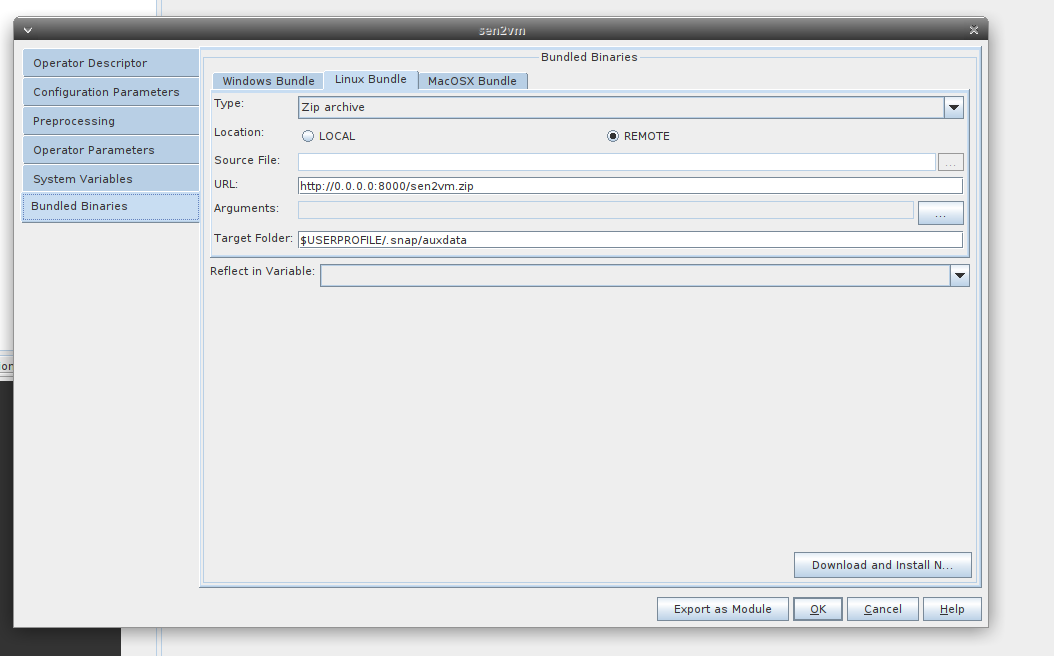
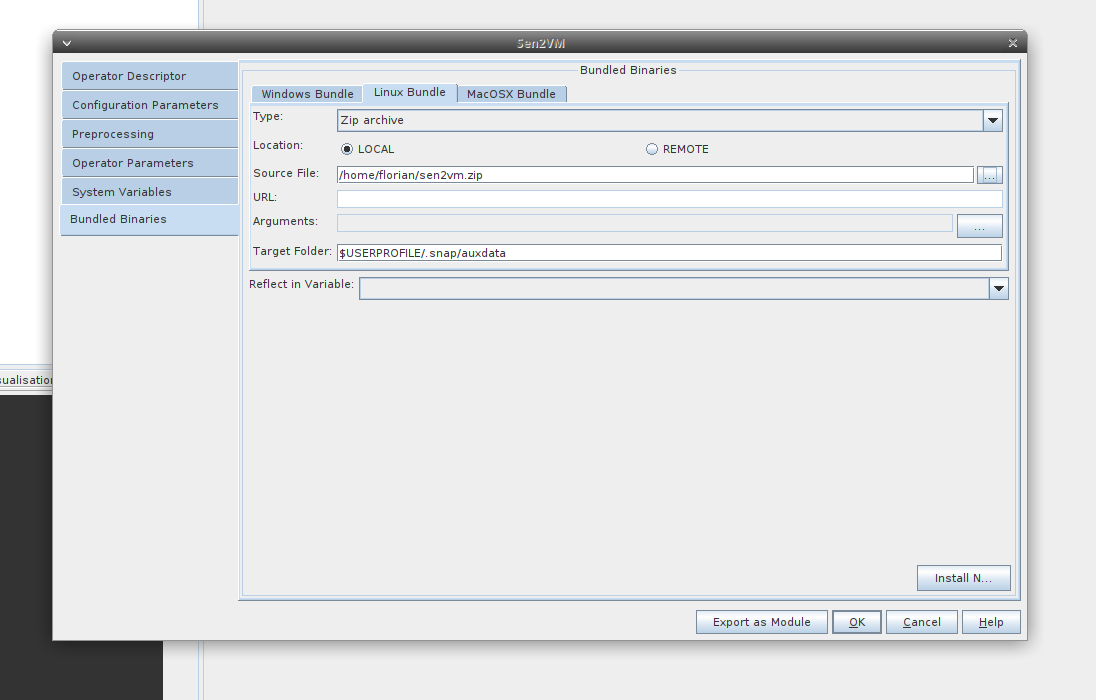
[doc] update readme

Changed region(s): [[0.0, 0.0, 0.9412, 1.0]]

diff --git a/README.md b/README.md
@@ -1,7 +1,8 @@
-# Sen2vm-snap-plugin
-Sen2VM SNAP plugin that calls the sen2vm-core standalone jar
+# Sen2VM-snap-plugin
 
-### *Prerequisite*
+Sen2VM SNAP plugin that calls the Sen2VM-Core standalone jar. For more details about the Sen2VM-Core, please refer to the following : https://github.com/sen2vm/sen2vm-core.
+
+### *Prerequisites*
 
 * build sen2vm-core
 * create zip archive with the following structure
@@ -10,13 +11,13 @@ sen2vm.zip
 
   src/main/resources/orekit-data/ 
 
-  sen2vm-snap-plugin/ 
+  sen2vm-core/
 
-  sen2vm-snap-plugin/sen2vm-core-0.0.1-SNAPSHOT.jar 
+  sen2vm-core/sen2vm-core-0.0.1-SNAPSHOT.jar 
 
-  sen2vm-snap-plugin/configuration_example.json 
+  sen2vm-core/configuration_example.json 
 
-  sen2vm-snap-plugin/params.json 
+  sen2vm-core/params.json 
 
 ### Build from sources
 
@@ -26,49 +27,70 @@ sen2vm.zip
 
 ###  SNAP installation
 
-The bundle installation is not provided for now.
-You can distribute the archive with python http.server to serve the zip file on default snap URL
+The bundle installation is not provided for now. You can distribute the archive with Python http.server to serve the zip file on the default SNAP URL:
+
 
 ``	python3 -m http.server 8000 ``
 
-Otherwise , you can choose local installation in the SNAP menu bundle installation.
+Otherwise, you can choose local installation in the SNAP menu bundle installation.
 
 
 
 * Install plugin from snap menu: **Tools → Plugins** 
 
-![img](/home/florian/snap_dev/sen2vm-snap-plugin/doc/images/plugin_menu.png) 
+![img](doc/images/plugin_menu.png) 
 
  
 
  
 
-Continue by  **Downloaded → Add Plugins** and search the nbm file in :
+Continue by  **Downloaded → Add Plugins** and search for the nbm file in :
 
 sen2vm-snap-plugin/target/sen2vm-snap-plugin-1.0-SNAPSHOT.nbm 
 
-At the end of the plugin installation, choose restart SNAP to taking account the modification.
 
-![img](/home/florian/snap_dev/sen2vm-snap-plugin/doc/images/install_plugin.png) 
 
-At this stage, only the plugin is installed. It have to install the installation bundle -> sen2vm.zip.
-At the first execution of plugin, the installation bundle is proposed to the user.
-Otherwise, it is possible to install the bundle after the restart in the menu **Tools > Manage Exeternal Tools**
+![img](doc/images/install_plugin.png) 
 
-![img](/home/florian/snap_dev/sen2vm-snap-plugin/doc/images/manager_ext_tools_menu.png) 
+
+
+
+
+![image-20250321112719642](doc/images/install_plugin_menu.png)
+
+At the end of the plugin installation, choose to restart SNAP to apply the changes.
+
+
+
+At this stage, only the plugin is installed. You need to install the installation bundle -> sen2vm.zip. At the first execution of the plugin, the installation bundle is proposed to the user. Otherwise, it is possible to install the bundle after the restart in the menu **Tools > Manage External Tools**
+
+![img](doc/images/manager_ext_tools_menu.png) 
 
  
 
-And then, double click on  **sen2vm-snap-plugin**
+Then, double click on  **Sen2VM**
 
-![image-20250318171215251](/home/florian/snap_dev/sen2vm-snap-plugin/doc/images/manager_ext_tools_view.png)
+![image-20250321113130636](doc/images/manager_ext_tools_view.png)
 
-Continue to  **Bundled Binaries** and proceed to **Download and Install Now** .
-
-![image-20250318171300788](/home/florian/snap_dev/sen2vm-snap-plugin/doc/images/install_bundle_menu.png) 
+Continue to **Bundled Binaries** and proceed to **Download and Install Now** . Then, click OK and exit from the **Manage External Tools**.
 
 
+
+![image-20250318171300788](doc/images/install_bundle_menu.png) 
+
+![image-20250321113720087](/home/florian/snap_dev/sen2vm-snap-plugin/doc/images/manager_ext_tools_view_green.png)
 
 ### Using
 
-The sen2vm-snap-plugin is located in **Optical>Geometric>sen2vm**
+The sen2vm-snap-plugin is located in **Optical>Geometric>Sen2VM**
+
+Console output can be enabled via Display execution output.
+
+There are two ways to set the parameters. 
+
+* Specify the path to configuration files: Configuration file and Parameters File. These parameters override all others. Do not set them if you want to use the others. 
+* Set the parameters and choose the detectors and bands to process
+
+
+
+![image-20250321114953248](doc/images/process.png)
